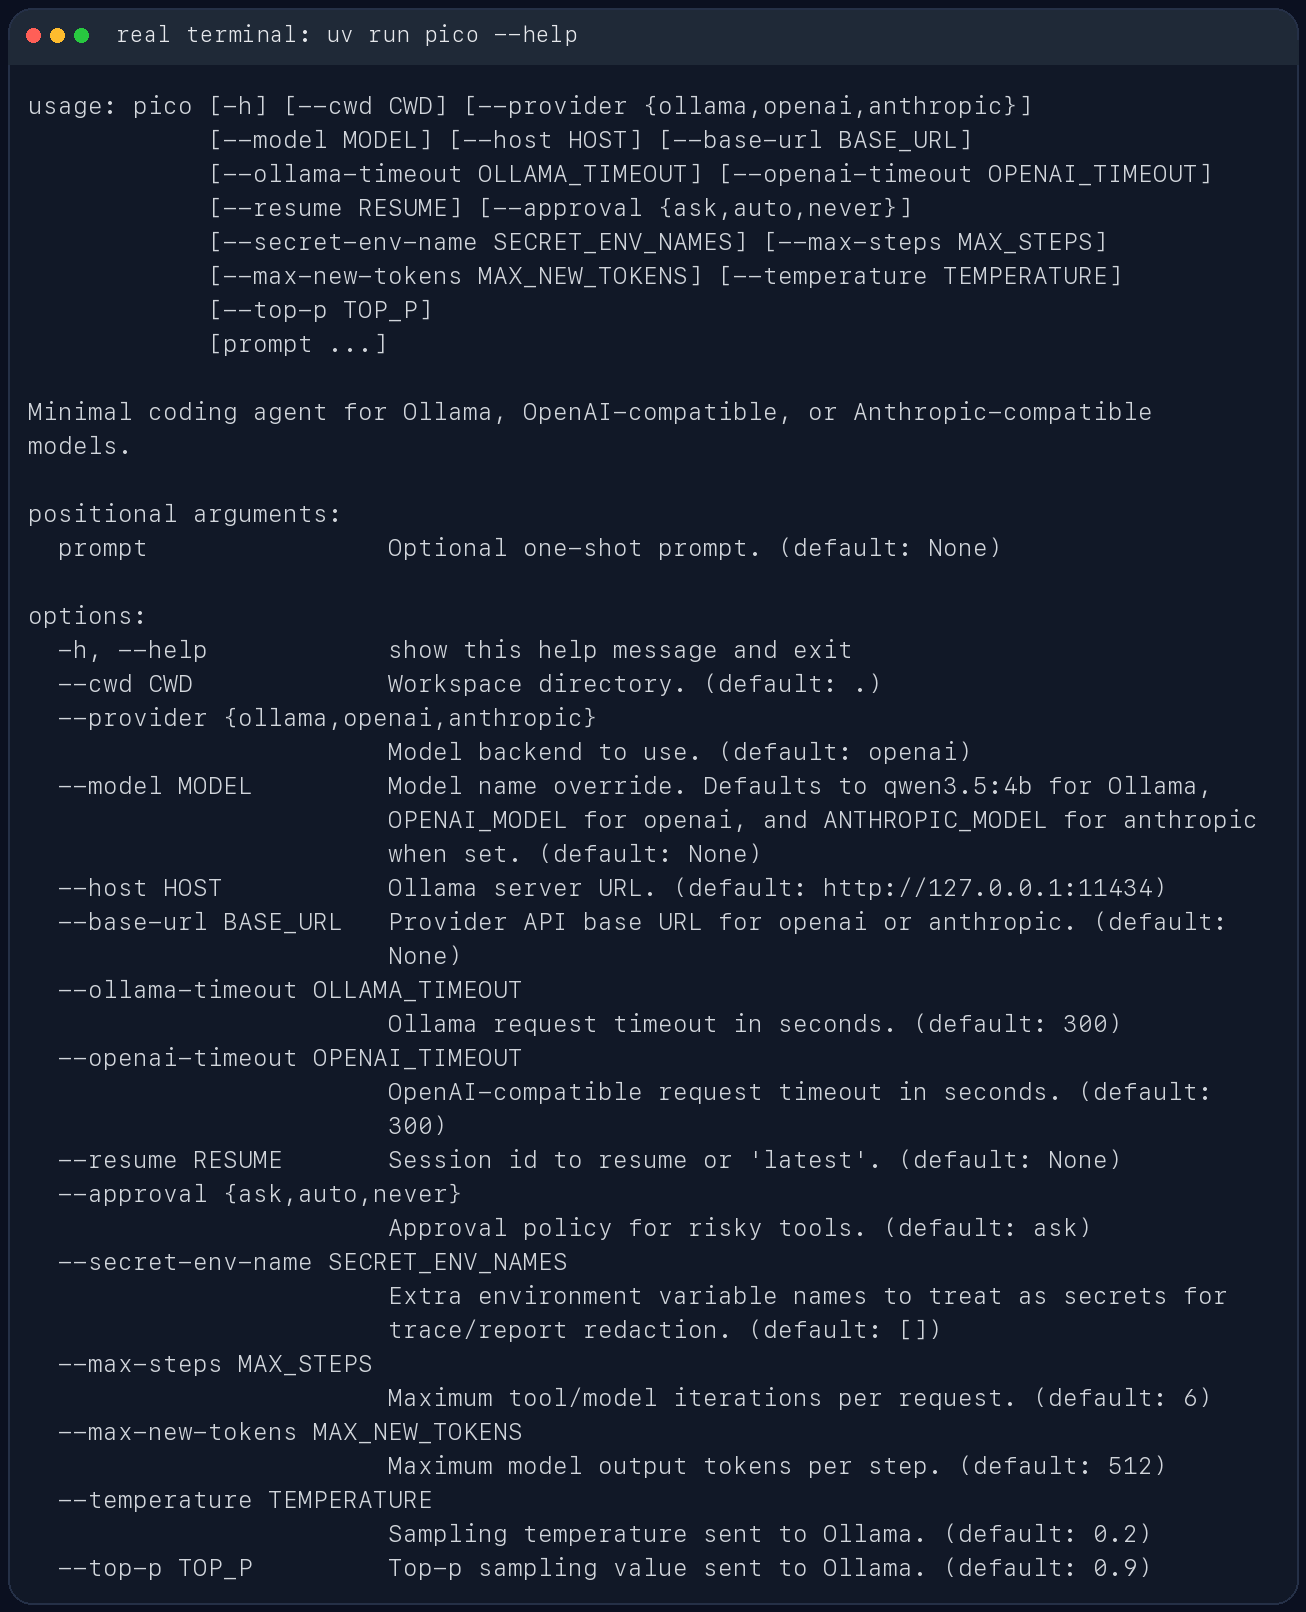
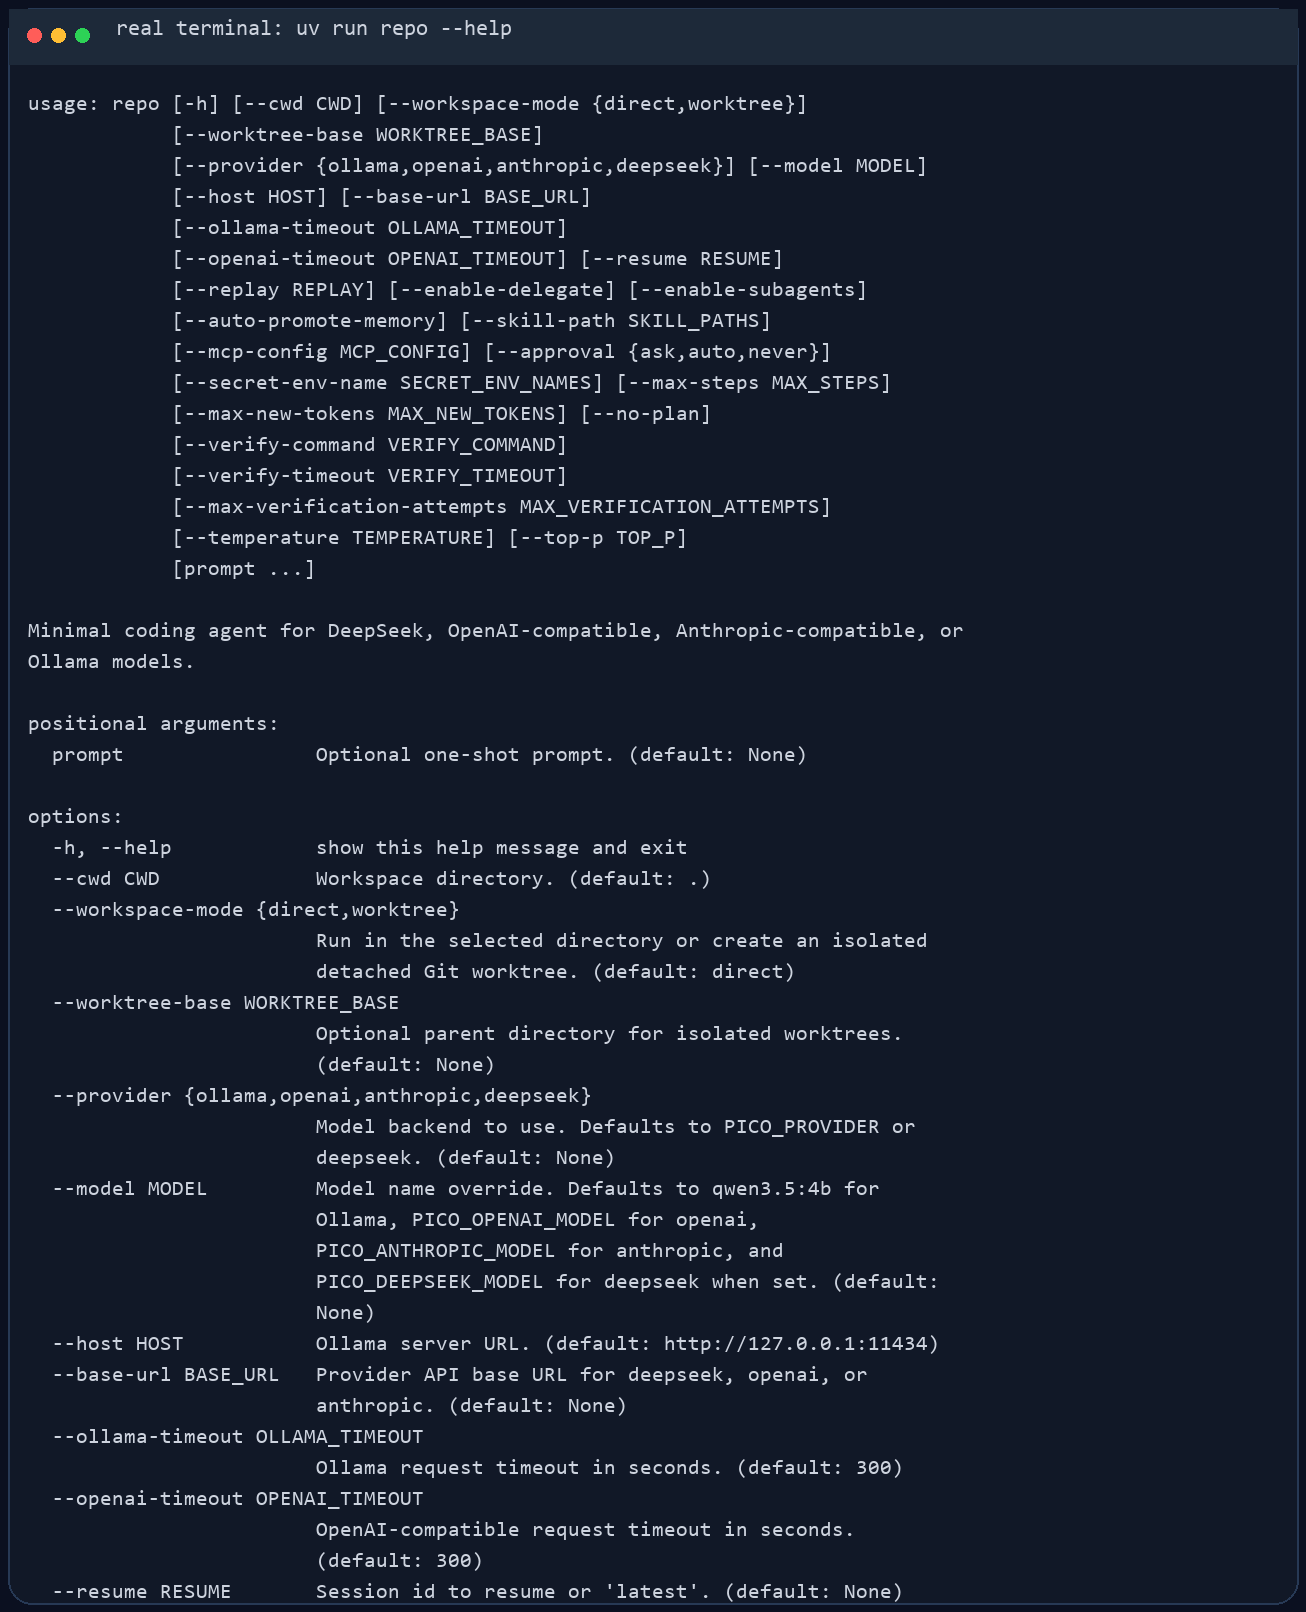
feat: brand CLI and refresh repo screenshots

diff --git a/pico/cli.py b/pico/cli.py
@@ -42,7 +42,8 @@ WELCOME_ART = (
     "      /|       |\\\\",
 )
 WELCOME_NAME = "Repo Coding Runtime"
-WELCOME_SUBTITLE = "local coding agent runtime (CLI: pico)"
+CLI_COMMAND = "repo"
+WELCOME_SUBTITLE = f"local coding agent runtime (CLI: {CLI_COMMAND})"
 WELCOME_STATUS = "calm shell, ready for work"
 HELP_DETAILS = textwrap.dedent(
     """\
@@ -408,7 +409,7 @@ def main(argv=None):
         # 交互模式：每次读取一条用户输入，交给同一个 agent，
         # 因此 session history 和 working memory 会跨轮延续。
         try:
-            user_input = input("\npico> ").strip()
+            user_input = input(f"\n{CLI_COMMAND}> ").strip()
         except (EOFError, KeyboardInterrupt):
             print("")
             return 0

diff --git a/tests/test_context_manager.py b/tests/test_context_manager.py
@@ -28,7 +28,7 @@ def test_context_manager_assembles_sections_in_expected_order(tmp_path):
 
     prompt, metadata = ContextManager(agent).build("Where is the deploy key?")
 
-    assert prompt.index("You are pico") < prompt.index("Memory:")
+    assert prompt.index("You are Repo Coding Runtime") < prompt.index("Memory:")
     assert prompt.index("Memory:") < prompt.index("Relevant memory:")
     assert prompt.index("Relevant memory:") < prompt.index("Transcript:")
     assert prompt.index("Transcript:") < prompt.index("Current user request:")

diff --git a/pico/prompt_prefix.py b/pico/prompt_prefix.py
@@ -72,7 +72,7 @@ def build_prompt_prefix(workspace, tools, built_at=None):
     # 它是谁、工具怎么调用、当前仓库是什么状态，都写在这里。
     text = textwrap.dedent(
         f"""\
-        You are pico, a small local coding agent working inside a local repository.
+        You are Repo Coding Runtime, a local coding agent working inside a local repository.
 
         Rules:
         - Use tools instead of guessing about the workspace.

diff --git a/tests/test_public_api_contract.py b/tests/test_public_api_contract.py
@@ -44,3 +44,10 @@ def test_packaging_discovers_pico_subpackages():
 
     assert "[tool.setuptools.packages.find]" in pyproject_text
     assert 'include = ["pico*"]' in pyproject_text
+
+
+def test_public_cli_alias_preserves_pico_compatibility():
+    pyproject_text = Path("pyproject.toml").read_text(encoding="utf-8")
+
+    assert 'repo = "pico.cli:main"' in pyproject_text
+    assert 'pico = "pico.cli:main"' in pyproject_text

diff --git a/tests/test_prompt_prefix.py b/tests/test_prompt_prefix.py
@@ -28,7 +28,7 @@ def test_build_prompt_prefix_renders_tools_and_workspace_metadata(tmp_path):
 
     prefix = build_prompt_prefix(workspace=workspace, tools=tools, built_at="2026-06-02T00:00:00+08:00")
 
-    assert "You are pico" in prefix.text
+    assert "You are Repo Coding Runtime" in prefix.text
     assert "Tools:" in prefix.text
     assert "- read_file(" in prefix.text
     assert "Workspace:" in prefix.text

diff --git a/tests/test_pico.py b/tests/test_pico.py
@@ -335,7 +335,7 @@ def test_welcome_screen_keeps_box_shape_for_long_paths(tmp_path):
     assert "(  o o  )" in welcome
     assert "MINI-CODING-AGENT" not in welcome
     assert "MINI CODING AGENT" not in welcome
-    assert "pico" in welcome
+    assert "Repo Coding Runtime" in welcome
     assert "local coding agent" in welcome
     assert "// READY" not in welcome
     assert "SLASH" not in welcome
